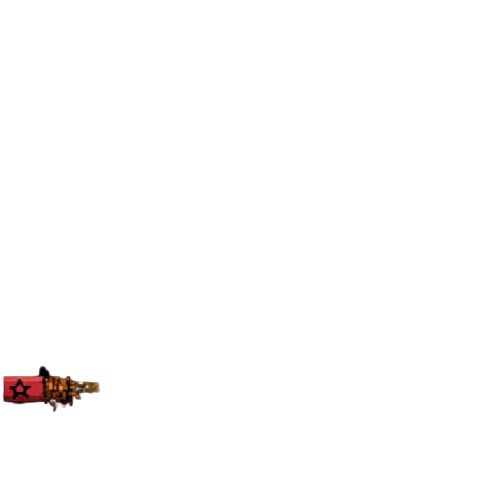
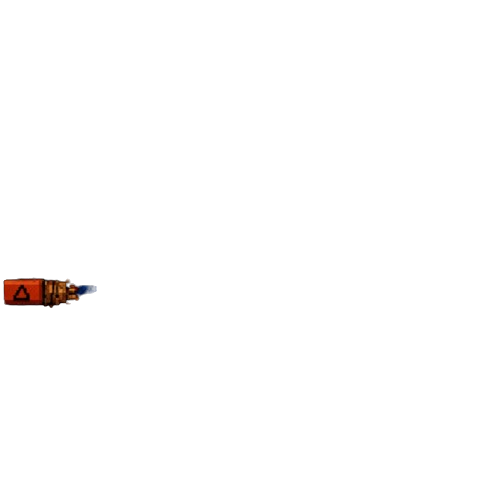
electrischiteitskast

Changed region(s): [[0.0, 0.72, 0.21, 0.84], [0.0, 0.54, 0.21, 0.63]]

diff --git a/electrisiteitskast.py b/electrisiteitskast.py
@@ -1,0 +1,156 @@
+import pygame
+import settings
+import random
+
+electrisiteitskast = pygame.image.load("assets/images/Rooms/elektriciteit/electrisiteits kast.png")
+electrisiteitskast = pygame.transform.scale(electrisiteitskast, (300, 300))
+
+kabel_1_x = 30
+kabel_2_x = 95
+kabel_3_x = 150
+kabel_4_x = 210
+
+
+blue_kabel = pygame.image.load("assets/images/Rooms/elektriciteit/blue_kabel.png")
+blue_kabel = pygame.transform.scale(blue_kabel, (300, 300))
+
+blue_kabel_rect_left = blue_kabel.get_rect(topleft=(28, kabel_2_x))
+blue_kabel_rect_left = blue_kabel_rect_left.inflate(-250, -280)
+
+blue_kabel_rect_right = blue_kabel.get_rect(topleft=(270, kabel_2_x))
+blue_kabel_rect_right = blue_kabel_rect_right.inflate(-250, -280)
+
+
+orange_kabel = pygame.image.load("assets/images/Rooms/elektriciteit/orange_kabel.png")
+orange_kabel = pygame.transform.scale(orange_kabel, (300, 300))
+
+orange_kabel_rect_left = orange_kabel.get_rect(topleft=(28, kabel_3_x))
+orange_kabel_rect_left = orange_kabel_rect_left.inflate(-250, -280)
+
+orange_kabel_rect_right = orange_kabel.get_rect(topleft=(270, kabel_1_x))
+orange_kabel_rect_right = orange_kabel_rect_right.inflate(-250, -280)
+
+
+roze_kabel = pygame.image.load("assets/images/Rooms/elektriciteit/roze_kabel.png")
+roze_kabel = pygame.transform.scale(roze_kabel, (300, 300))
+
+roze_kabel_rect_left = roze_kabel.get_rect(topleft=(28, kabel_4_x))
+roze_kabel_rect_left = roze_kabel_rect_left.inflate(-250, -280)
+
+roze_kabel_rect_right = roze_kabel.get_rect(topleft=(270, kabel_4_x))
+roze_kabel_rect_right = roze_kabel_rect_right.inflate(-250, -280)
+
+
+yellow_kabel = pygame.image.load("assets/images/Rooms/elektriciteit/yellow_kabel.png")
+yellow_kabel = pygame.transform.scale(yellow_kabel, (300, 300))
+
+yellow_kabel_rect_left = yellow_kabel.get_rect(topleft=(28, kabel_1_x))
+yellow_kabel_rect_left = yellow_kabel_rect_left.inflate(-250, -280)
+
+yellow_kabel_rect_right = yellow_kabel.get_rect(topleft=(270, kabel_3_x))
+yellow_kabel_rect_right = yellow_kabel_rect_right.inflate(-250, -280)
+
+dragging_blue = False
+dragging_orange = False
+dragging_roze = False
+dragging_yellow = False
+
+blue_connected = False
+orange_connected = False
+roze_connected = False
+yellow_connected = False
+
+blue_end_pos = (0,0)
+orange_end_pos = (0,0)
+roze_end_pos = (0,0)   
+yellow_end_pos = (0,0)
+
+
+def meterkast(screen, mouse_x, mouse_y):
+    global blue_kabel_rect_left, orange_kabel_rect_left, roze_kabel_rect_left, yellow_kabel_rect_left, dragging_blue, dragging_orange, dragging_roze, dragging_yellow, kabel_1_x, kabel_2_x, kabel_3_x, kabel_4_x, blue_connected, blue_end_pos, orange_connected, orange_end_pos, roze_connected, roze_end_pos, yellow_connected, yellow_end_pos
+
+    screen.blit(electrisiteitskast, (150, 125))
+    pygame.draw.rect(screen, (0, 0, 255), blue_kabel_rect_left, 2)
+    pygame.draw.rect(screen, (255, 0, 0), orange_kabel_rect_left, 2)
+    pygame.draw.rect(screen, (255, 20, 147), roze_kabel_rect_left, 2)
+    pygame.draw.rect(screen, (255, 165, 0), yellow_kabel_rect_left, 2)
+
+    pygame.draw.rect(screen, (0, 0, 255), blue_kabel_rect_right, 2)
+    pygame.draw.rect(screen, (255, 0, 0), orange_kabel_rect_right, 2)
+    pygame.draw.rect(screen, (255, 20, 147), roze_kabel_rect_right, 2)
+    pygame.draw.rect(screen, (255, 165, 0), yellow_kabel_rect_right, 2)
+
+    mouse_buttons = pygame.mouse.get_pressed()
+    mouse_pressed = mouse_buttons[0]
+
+    if blue_kabel_rect_left.collidepoint(mouse_x, mouse_y):
+        if mouse_pressed and not settings.mouse_was_pressed and not dragging_orange and not dragging_roze and not dragging_yellow: 
+            dragging_blue = True 
+    
+    elif orange_kabel_rect_left.collidepoint(mouse_x, mouse_y):
+        if mouse_pressed and not settings.mouse_was_pressed and not dragging_blue and not dragging_roze and not dragging_yellow: 
+            dragging_orange = True 
+    
+    elif roze_kabel_rect_left.collidepoint(mouse_x, mouse_y):
+        if mouse_pressed and not settings.mouse_was_pressed and not dragging_blue and not dragging_orange and not dragging_yellow: 
+            dragging_roze = True
+
+    elif yellow_kabel_rect_left.collidepoint(mouse_x, mouse_y):
+        if mouse_pressed and not settings.mouse_was_pressed and not dragging_blue and not dragging_orange and not dragging_roze: 
+            dragging_yellow = True
+
+
+    if dragging_blue:
+        pygame.draw.line(screen, (0,0,255), (175, 245), pygame.mouse.get_pos(), 10)
+
+    elif dragging_orange:
+        pygame.draw.line(screen, (255,0,0), (175, 300), pygame.mouse.get_pos(), 10)
+
+    elif dragging_roze:
+        pygame.draw.line(screen, (255,20,147), (175, 360), pygame.mouse.get_pos(), 10)
+
+    elif dragging_yellow:
+        pygame.draw.line(screen, (255,165,0), (175, 180), pygame.mouse.get_pos(), 10)
+
+
+    if dragging_blue and blue_kabel_rect_right.collidepoint(mouse_x, mouse_y):
+        if mouse_pressed and not settings.mouse_was_pressed:
+            dragging_blue = False
+            blue_end_pos = pygame.mouse.get_pos()
+            blue_connected = True
+    
+    elif dragging_orange and orange_kabel_rect_right.collidepoint(mouse_x, mouse_y):
+        if mouse_pressed and not settings.mouse_was_pressed:
+            dragging_orange = False
+            orange_end_pos = pygame.mouse.get_pos()
+            orange_connected = True
+
+    elif dragging_roze and roze_kabel_rect_right.collidepoint(mouse_x, mouse_y):
+        if mouse_pressed and not settings.mouse_was_pressed:
+            dragging_roze = False
+            roze_end_pos = pygame.mouse.get_pos()
+            roze_connected = True
+
+    elif dragging_yellow and yellow_kabel_rect_right.collidepoint(mouse_x, mouse_y):
+        if mouse_pressed and not settings.mouse_was_pressed:
+            dragging_yellow = False
+            yellow_end_pos = pygame.mouse.get_pos()
+            yellow_connected = True
+
+    if blue_connected:
+        pygame.draw.line(screen, (0,0,255), (175, 245), blue_end_pos, 10)
+
+    if orange_connected:
+        pygame.draw.line(screen, (255,0,0), (175, 300), orange_end_pos, 10)
+
+    if roze_connected:
+        pygame.draw.line(screen, (255,20,147), (175, 360), roze_end_pos, 10)
+    
+    if yellow_connected:
+        pygame.draw.line(screen, (255,165,0), (175, 180), yellow_end_pos, 10)
+            
+
+            
+
+
+

diff --git a/main.py b/main.py
@@ -1,4 +1,6 @@
 import os
+
+import electrisiteitskast
 os.environ["SDL_AUDIODRIVER"] = "dummy"
 import pygame
 import random
@@ -27,7 +29,7 @@ pygame.display.set_caption(settings.TITLE)
 
 clock = pygame.time.Clock()
 #room_1_file.draw_room, room_2_file.draw_room, room_3_file.draw_room
-rooms = [room_2_file.draw_room]
+rooms = [room_1_file.draw_room]
 
 
 def main():
@@ -94,13 +96,18 @@ def main():
 
                 if settings.solving and chosen_room.__module__ == "room_1_file":
                     
-                    # use opened_object since e_knop_on_screen is cleared when solved
+                    # Verchil tussen opened object en e_knop_on_screen is zodat je niet meerdere keeren kan openen als je het al geopend/gedaan hebt
                     if settings.opened_object == "kluis":
                         pos = pygame.mouse.get_pos()
                         kluis.open_kluis(screen, pos)
                     elif settings.opened_object in ("bed", "doos"):
                         paper_code.open_paper(screen)
-                
+
+                elif settings.solving and chosen_room.__module__ == "room_2_file":
+                    if settings.opened_object == "electrisiteitskast":
+                        mouse_x, mouse_y = pygame.mouse.get_pos()
+                        electrisiteitskast.meterkast(screen, mouse_x, mouse_y)
+
 
 
 

diff --git a/room_2_file.py b/room_2_file.py
@@ -1,14 +1,14 @@
 import pygame
 import settings
 
+
 room_2_picture = pygame.image.load("assets/images/Rooms/Room_2.png")
 room_2_picture = pygame.transform.scale(room_2_picture, (600, 500))
 
 e_knop = pygame.image.load("assets/images/e_knop.png")
 e_knop = pygame.transform.scale(e_knop, (50, 50))
 
-electrisiteitskast = pygame.image.load("assets/images/Rooms/elektriciteit/electrisiteits kast.png")
-electrisiteitskast = pygame.transform.scale(electrisiteitskast, (300, 300))
+
 
 def draw_room(screen):
     screen.blit(room_2_picture, (0, 0))
@@ -38,7 +38,10 @@ def draw_room(screen):
                 screen.blit(e_knop, (250, 50))
                 if keys[settings.E_PRESS]:
                     settings.solving = True
-                    screen.blit(electrisiteitskast, (150, 125))
+                    settings.opened_object = "electrisiteitskast"
+                    settings.e_knop_on_screen = ""
+                    
+                    
                     
 
 
